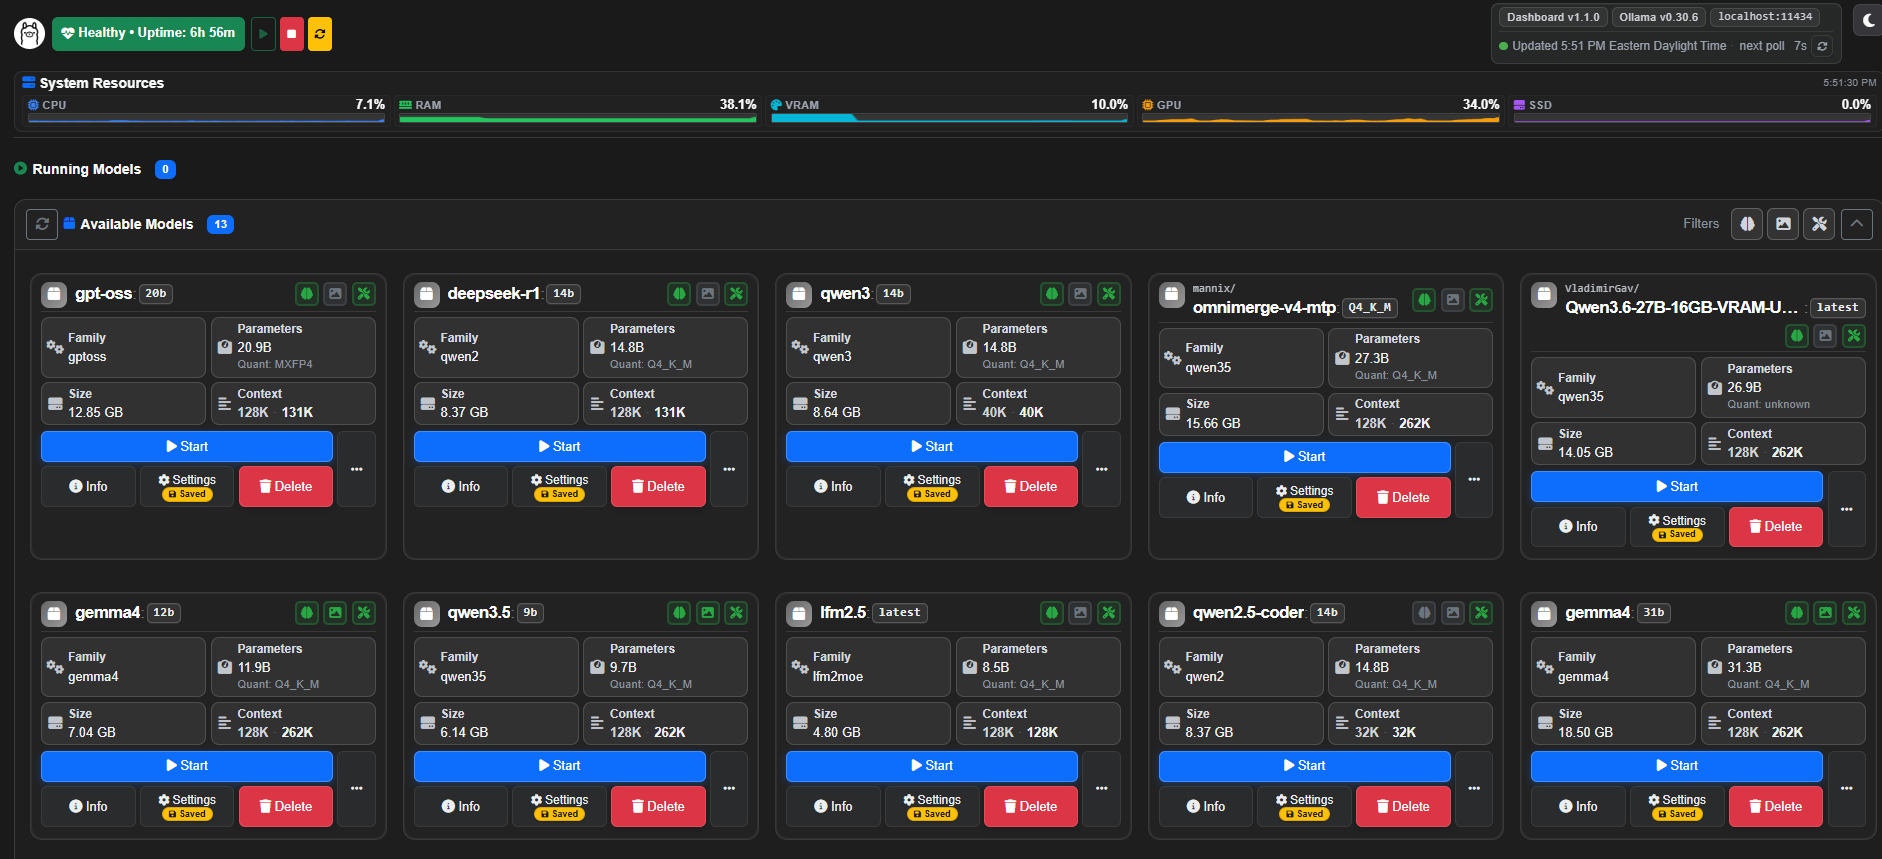
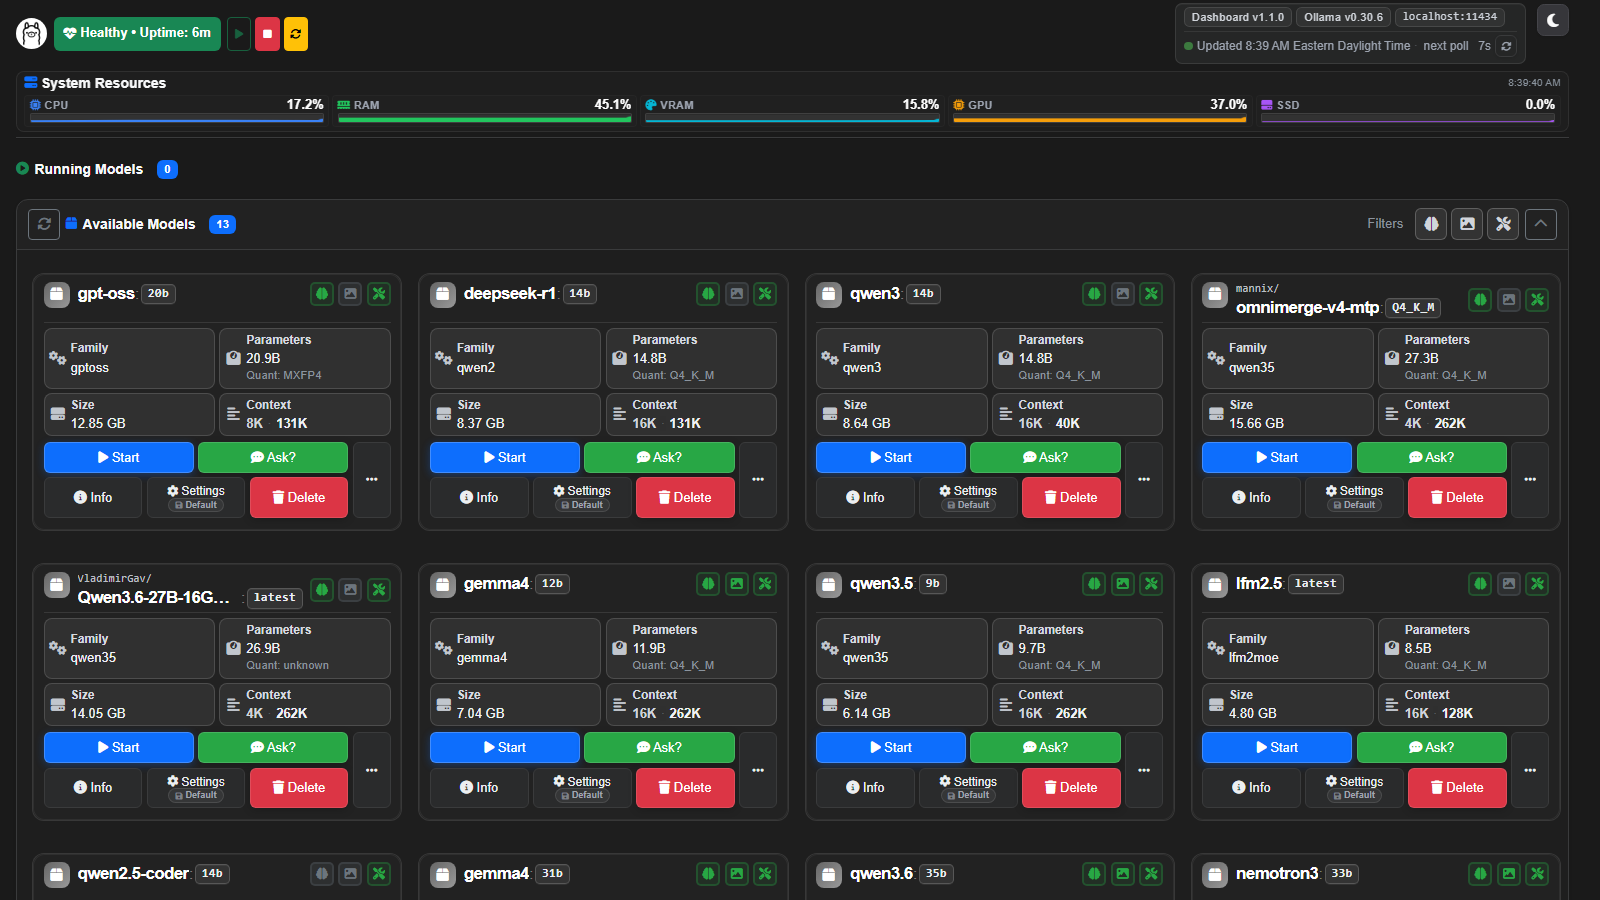
Update README screenshot to reflect current UI
New screenshot captures the redesigned card layout: consistent header
heights, Start | Ask? in row 1 and Info | Settings | Delete in row 2
on available cards, and the system-resources bar. Also updates the
alt text to mention the Ask? button and saves a copy to
docs/images/dashboard.png.

diff --git a/README.md b/README.md
@@ -2,7 +2,7 @@
 
 ## Version 1.1.0
 
-![Ollama Dashboard — system metrics, running/available/downloadable models, and Settings status (Saved / Default) on each card](image.png)
+![Ollama Dashboard — system metrics, running/available models with Start, Ask?, Info, Settings and Delete actions, per-model settings with Saved/Default badge](image.png)
 
 A web dashboard for monitoring, controlling, and managing Ollama language models: real-time system metrics, per-model settings with JSON persistence, and model discovery.
 